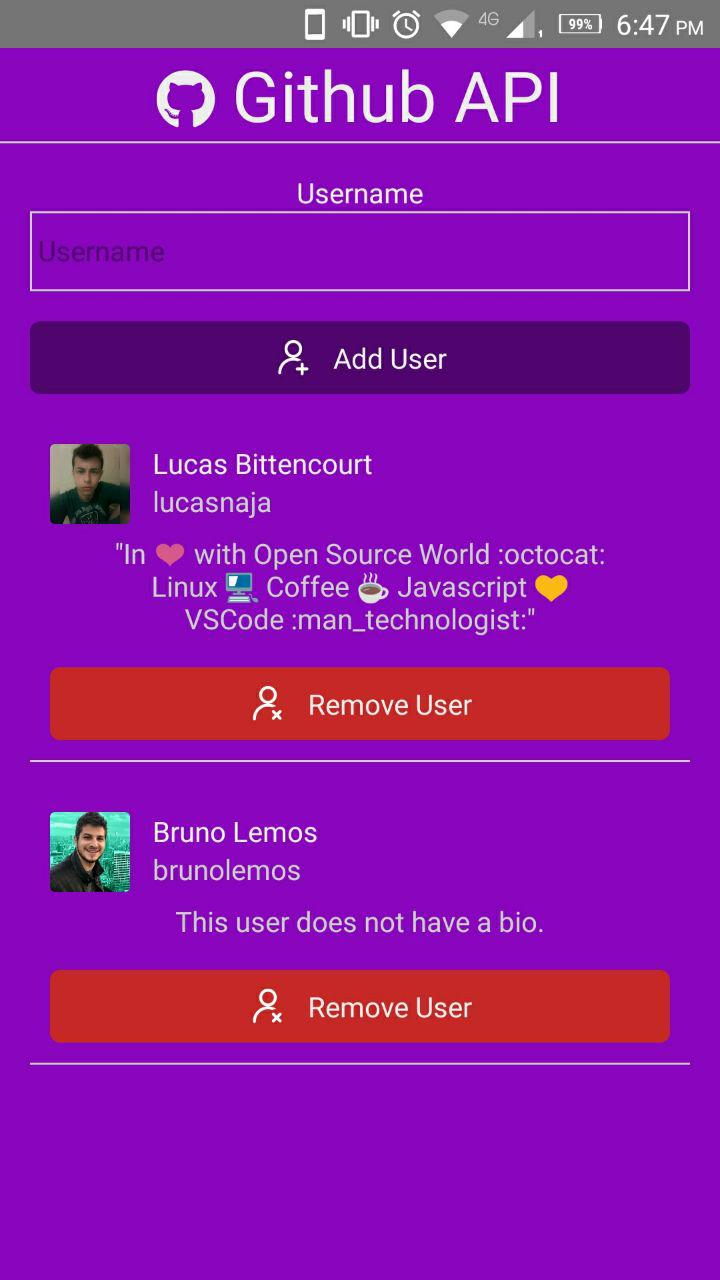
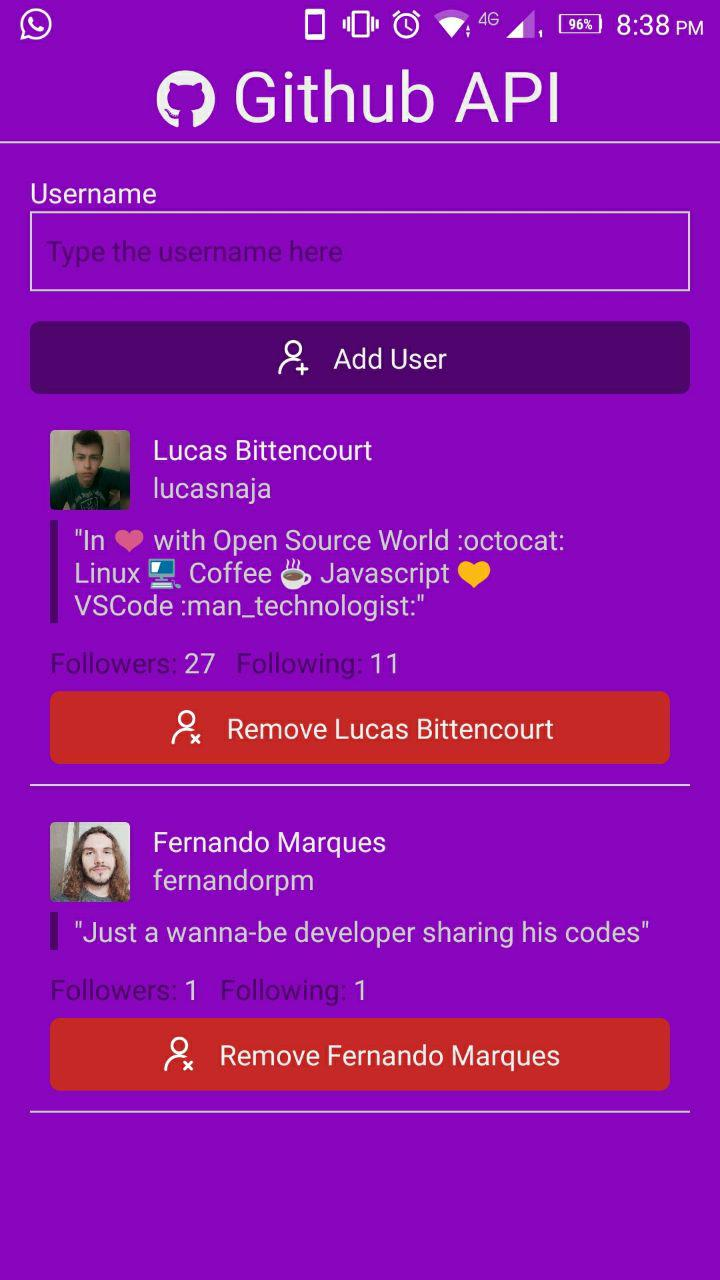
visual improvements

diff --git a/src/index.js b/src/index.js
@@ -1,6 +1,14 @@
 /* eslint-disable react-native/no-inline-styles */
 import React, { useState } from 'react';
-import { View, ScrollView, Text, TextInput, Image } from 'react-native';
+import {
+  View,
+  ScrollView,
+  Text,
+  TextInput,
+  Image,
+  Alert,
+  StatusBar,
+} from 'react-native';
 import FA5 from 'react-native-vector-icons/FontAwesome5';
 import ADIcon from 'react-native-vector-icons/AntDesign';
 import styles from './styles';
@@ -18,9 +26,11 @@ export default () => {
     if (username !== '') {
       const user = await axios.get(`https://api.github.com/users/${username}`);
 
-      if (users.indexOf(user.data) === -1) {
+      if (users.findIndex(element => element.id === user.data.id) === -1) {
         setUsers([...users, user.data]);
         setUsername('');
+      } else {
+        Alert.alert('Erro', 'Usuário já adicionado!');
       }
     }
   };
@@ -31,6 +41,7 @@ export default () => {
 
   return (
     <ScrollView style={styles.scrollView}>
+      <StatusBar backgroundColor="#8A05BE" barStyle="light-content" />
       <View style={styles.center}>
         <Text style={styles.h1}>
           <FA5 name="github" size={30} /> Github API
@@ -40,15 +51,19 @@ export default () => {
       <View style={styles.divider} />
 
       <View style={{ ...styles.center, ...styles.padding }}>
-        <Text style={styles.whiteColor}>Username</Text>
+        <Text style={{ ...styles.whiteColor, alignSelf: 'flex-start' }}>
+          Username
+        </Text>
+
         <TextInput
-          placeholder="Username"
+          placeholder="Type the username here"
           autoCompleteType="username"
           onChangeText={text => handleOnChangeText(text)}
           defaultValue={username}
           style={styles.textInput}
         />
-        <View style={{ width: '100%' }}>
+
+        <View style={{ width: '100%', marginBottom: 8 }}>
           <ADIcon.Button
             name="adduser"
             style={{ ...styles.button, justifyContent: 'center' }}
@@ -74,16 +89,34 @@ export default () => {
             </View>
 
             <Text
-              style={{ textAlign: 'center', color: '#ccc', marginBottom: 15 }}>
+              style={{
+                color: '#ccc',
+                marginBottom: 10,
+                borderLeftWidth: 4,
+                borderLeftColor: '#50046e',
+                paddingLeft: 12,
+              }}>
               {user.bio ? `"${user.bio}"` : 'This user does not have a bio.'}
             </Text>
+
+            <View style={{ flexDirection: 'row', marginBottom: 5 }}>
+              <View style={{ flexDirection: 'row' }}>
+                <Text style={{ color: '#50046e' }}>Followers: </Text>
+                <Text style={{ color: '#ccc' }}>{user.followers}</Text>
+              </View>
+
+              <View style={{ flexDirection: 'row', marginLeft: 10 }}>
+                <Text style={{ color: '#50046e' }}>Following: </Text>
+                <Text style={{ color: '#ccc' }}>{user.following}</Text>
+              </View>
+            </View>
 
             <ADIcon.Button
               name="deleteuser"
               style={{ justifyContent: 'center' }}
               onPress={() => handleDelete(user.id)}
               backgroundColor="#c62828">
-              <Text style={styles.whiteColor}>Remove User</Text>
+              <Text style={styles.whiteColor}>Remove {user.name}</Text>
             </ADIcon.Button>
           </View>
         ))}

diff --git a/src/styles.js b/src/styles.js
@@ -24,6 +24,7 @@ export default StyleSheet.create({
     borderColor: '#ccc',
     marginBottom: 15,
     color: '#ededed',
+    paddingLeft: 8,
   },
   padding: {
     paddingTop: 15,
@@ -31,7 +32,7 @@ export default StyleSheet.create({
     paddingRight: 15,
   },
   userBox: {
-    marginTop: 15,
+    marginBottom: 8,
     width: '100%',
     borderBottomWidth: 1,
     borderColor: '#ccc',

diff --git a/README.md b/README.md
@@ -4,5 +4,5 @@
 
 <p align="center">
   <img width="400" src="images/img01.jpg">
-  <img width="400" src="images/img02.jpeg">
+  <img width="400" src="images/img02.jpg">
 </p>
